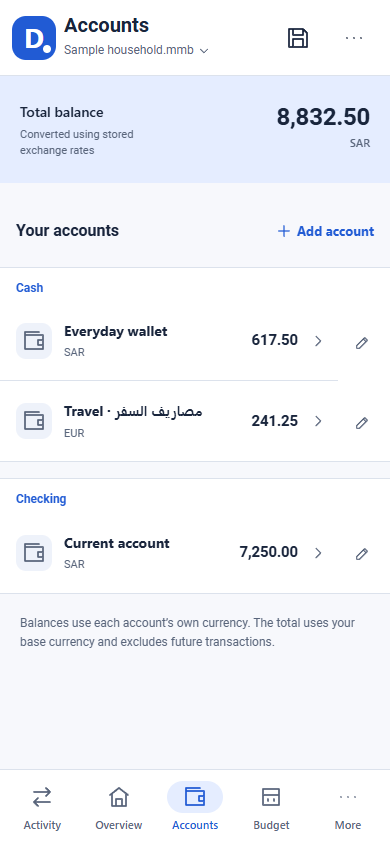
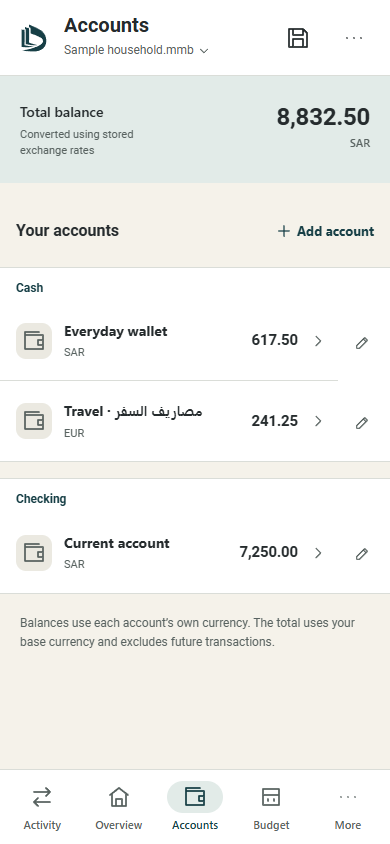
Add files via upload

diff --git a/app/src/main/assets/mobile-shell.css b/app/src/main/assets/mobile-shell.css
@@ -1,28 +1,28 @@
 /* Android presentation: compact ledger, independent app navigation, full-screen entry. */
 html.diwan-mobile {
-  --m-primary:#215bd4; --m-on-primary:#fff; --m-primary-container:#e5edff;
-  --m-bg:#f7f8fc; --m-surface:#fff; --m-raised:#eef2fa; --m-text:#19253c;
-  --m-muted:#59657b; --m-line:#dce2ec; --m-income:#08765c; --m-income-bg:#e2f4ee;
-  --m-expense:#b82348; --m-expense-bg:#fce8ee; --m-transfer:#265db3; --m-transfer-bg:#e6edff;
+  --m-primary:#173f46; --m-on-primary:#fff; --m-primary-container:#e2ebe8;
+  --m-bg:#f5f2ea; --m-surface:#fff; --m-raised:#ebe9e1; --m-text:#252b2d;
+  --m-muted:#586260; --m-line:#daddd8; --m-income:#20734b; --m-income-bg:#e4f1e9;
+  --m-expense:#b83a3a; --m-expense-bg:#fbe9e6; --m-transfer:#8a630d; --m-transfer-bg:#f5edd8;
   --m-radius:16px; --m-nav-height:76px; --m-header-height:76px;
   --ui-brand:var(--m-primary); --ui-canvas:var(--m-bg); --ui-surface:var(--m-surface);
   --ui-text:var(--m-text); --ui-muted:var(--m-muted); --ui-border:var(--m-line);
-  --ui-border-strong:var(--m-muted); --ui-focus:var(--m-primary);
+  --ui-border-strong:var(--m-muted); --ui-focus:#0077b6;
   color-scheme:light;
 }
 html.diwan-mobile[data-mobile-theme="dark"] {
-  --m-primary:#aec8ff; --m-on-primary:#122e64; --m-primary-container:#253b60;
-  --m-bg:#101722; --m-surface:#172132; --m-raised:#202c40; --m-text:#ecf0f8;
-  --m-muted:#b4bfd2; --m-line:#354258; --m-income:#89dfbe; --m-income-bg:#163d35;
-  --m-expense:#ffb0c5; --m-expense-bg:#4b2536; --m-transfer:#abc7ff; --m-transfer-bg:#253c61;
+  --m-primary:#c0d9d8; --m-on-primary:#102b30; --m-primary-container:#284b50;
+  --m-bg:#102b30; --m-surface:#173f46; --m-raised:#244a50; --m-text:#f5f2ea;
+  --m-muted:#bbc9c7; --m-line:#3a5960; --m-income:#74d4a4; --m-income-bg:#194b3b;
+  --m-expense:#ff9a9a; --m-expense-bg:#593437; --m-transfer:#e8c36d; --m-transfer-bg:#4b4227;
   color-scheme:dark;
 }
 @media(prefers-color-scheme:dark) {
   html.diwan-mobile[data-mobile-theme="system"] {
-    --m-primary:#aec8ff; --m-on-primary:#122e64; --m-primary-container:#253b60;
-    --m-bg:#101722; --m-surface:#172132; --m-raised:#202c40; --m-text:#ecf0f8;
-    --m-muted:#b4bfd2; --m-line:#354258; --m-income:#89dfbe; --m-income-bg:#163d35;
-    --m-expense:#ffb0c5; --m-expense-bg:#4b2536; --m-transfer:#abc7ff; --m-transfer-bg:#253c61;
+    --m-primary:#c0d9d8; --m-on-primary:#102b30; --m-primary-container:#284b50;
+    --m-bg:#102b30; --m-surface:#173f46; --m-raised:#244a50; --m-text:#f5f2ea;
+    --m-muted:#bbc9c7; --m-line:#3a5960; --m-income:#74d4a4; --m-income-bg:#194b3b;
+    --m-expense:#ff9a9a; --m-expense-bg:#593437; --m-transfer:#e8c36d; --m-transfer-bg:#4b4227;
     color-scheme:dark;
   }
 }
@@ -32,7 +32,7 @@ html.diwan-mobile[data-mobile-theme="dark"] {
 .diwan-mobile #app,.diwan-mobile body>.topbar,.diwan-mobile body>.app-footer,.diwan-mobile #welcome-view,.diwan-mobile #workspace,.diwan-mobile #mobile-nav,.diwan-mobile .command-strip,.diwan-mobile #mobile-more-dialog { display:none!important; }
 .diwan-mobile button,.diwan-mobile input,.diwan-mobile select,.diwan-mobile textarea { font:inherit; }
 .diwan-mobile button { cursor:pointer; -webkit-tap-highlight-color:transparent; touch-action:manipulation; }
-.diwan-mobile :focus-visible { outline:3px solid var(--m-primary); outline-offset:3px; }
+.diwan-mobile :focus-visible { outline:3px solid var(--ui-focus); outline-offset:3px; }
 .diwan-mobile ::selection { background:var(--m-primary-container); color:var(--m-text); }
 .diwan-mobile input,.diwan-mobile textarea { caret-color:var(--m-primary); }
 .diwan-mobile ::placeholder { color:var(--m-muted); opacity:1; }
@@ -308,3 +308,14 @@ html.diwan-mobile[data-mobile-theme="dark"] {
 .diwan-mobile #transaction-dialog .modal-footer>.button:not([type=submit]) { flex:0 0 auto; }
 .diwan-mobile #transaction-dialog .modal-footer>.button[type=submit] { flex:1 1 auto; white-space:nowrap; }
 #m-entry-currency { font-size:.875rem; color:var(--m-muted); font-weight:600; }
+
+/* Approved Diwan Ledger v2 artwork: retain original paths and proportions. */
+.m-monogram { background:transparent; border-radius:0; padding:6px; }
+.m-brand-symbol { display:block; width:32px; height:32px; object-fit:contain; }
+.m-brand-dark { display:none; }
+.m-brand-lockup { display:block; width:180px; max-width:100%; height:auto; margin:0 auto; }
+.m-welcome-brand { border-bottom:1px solid #b9814b; padding-bottom:24px; }
+html[data-mobile-theme="dark"] .m-brand-light { display:none; }
+html[data-mobile-theme="dark"] .m-brand-dark { display:block; }
+@media(prefers-color-scheme:dark) { html[data-mobile-theme="system"] .m-brand-light { display:none; } html[data-mobile-theme="system"] .m-brand-dark { display:block; } }
+.m-brand-lockup.m-brand-dark { display:none; } html[data-mobile-theme="dark"] .m-brand-lockup.m-brand-dark { display:block; } @media(prefers-color-scheme:dark) { html[data-mobile-theme="system"] .m-brand-lockup.m-brand-dark { display:block; } }

diff --git a/app/src/main/assets/mobile-shell.js b/app/src/main/assets/mobile-shell.js
@@ -36,8 +36,8 @@
   function header() {
     const account=snapshot?.accounts?.find(a=>String(a.ACCOUNTID)===String(state.account));
     const detail=state.detail!==null;
-    $('#m-header').innerHTML=`${detail||state.tool ? button('back','Back','back') : `<span class="m-monogram" aria-label="DIWAN">D<span></span></span>`}
-      <div class="m-heading"><h1>${escape(detail?'Transaction':state.tool?state.tool.label:labels[state.route])}</h1><button class="m-file-name" data-action="files">${escape(snapshot?.loaded?snapshot.fileName:'DIWAN · Your money, on your device')}${snapshot?.loaded?icon('down'):''}</button></div>
+    $('#m-header').innerHTML=`${detail||state.tool ? button('back','Back','back') : `<span class="m-monogram"><img class="m-brand-symbol m-brand-light" src="brand/diwanledger-symbol-petrol.svg" alt="Diwan Ledger"><img class="m-brand-symbol m-brand-dark" src="brand/diwanledger-symbol-ivory.svg" alt="Diwan Ledger"></span>`}
+      <div class="m-heading"><h1>${escape(detail?'Transaction':state.tool?state.tool.label:labels[state.route])}</h1><button class="m-file-name" data-action="files">${escape(snapshot?.loaded?snapshot.fileName:'Diwan Ledger · Your money, on your device')}${snapshot?.loaded?icon('down'):''}</button></div>
       ${snapshot?.loaded?button('save',snapshot.dirty?'Save unsaved changes':'Save file','save',`data-unsaved="${!!snapshot.dirty}"`):''}
       ${snapshot?.loaded&&!detail&&!state.tool?button(state.route==='activity'?'search':'files',state.route==='activity'?'Search transactions':'File actions',state.route==='activity'?'search':'more'):''}`;
     $('#m-nav').hidden=!snapshot?.loaded;
@@ -111,7 +111,7 @@
       <div class="m-detail-actions"><button class="m-outline" data-action="duplicate">${icon('copy')} Duplicate</button><button class="m-filled" data-action="edit">${icon('edit')} Edit transaction</button></div>`;
   }
   function welcome() {
-    return `<section class="m-welcome"><div class="m-welcome-brand">${icon('accounts')}<strong>DIWAN<span lang="ar">ديوان</span></strong></div><h2>A clear view of<br>your everyday money.</h2><p>Keep your accounts together. Record an expense in a few taps. Pick up where your file left off.</p><div class="m-welcome-actions"><button class="m-filled" data-action="open">${icon('folder')} Open finance file</button><button class="m-outline" data-action="folder">Choose working folder</button></div><p class="m-welcome-support">Opens .diwan and .mmb files</p><div class="m-welcome-note">${icon('shield')}<p><strong>Your file. Your device.</strong><br>No account or server is needed. Choose a folder to save changes and keep preferences beside your file.</p></div><p id="m-loading" class="m-muted" role="status">Preparing your workspace…</p></section>`;
+    return `<section class="m-welcome"><div class="m-welcome-brand"><img class="m-brand-lockup m-brand-light" src="brand/diwanledger-logo-stacked-petrol.svg" alt="Diwan Ledger"><img class="m-brand-lockup m-brand-dark" src="brand/diwanledger-logo-stacked-ivory.svg" alt="Diwan Ledger"></div><h2>A clear view of<br>your everyday money.</h2><p>Keep your accounts together. Record an expense in a few taps. Pick up where your file left off.</p><div class="m-welcome-actions"><button class="m-filled" data-action="open">${icon('folder')} Open finance file</button><button class="m-outline" data-action="folder">Choose working folder</button></div><p class="m-welcome-support">Opens .diwan and .mmb files</p><div class="m-welcome-note">${icon('shield')}<p><strong>Your file. Your device.</strong><br>No account or server is needed. Choose a folder to save changes and keep preferences beside your file.</p></div><p id="m-loading" class="m-muted" role="status">Preparing your workspace…</p></section>`;
   }
   function showTool(id) {
     const found=tools.find(t=>t[0]===id)||['budget','Budget setup'];

diff --git a/tools/wrap_studio.py b/tools/wrap_studio.py
@@ -83,4 +83,10 @@ def wrap(source):
 if __name__ == '__main__':
     parser = argparse.ArgumentParser()
     parser.add_argument('studio_html', type=Path)
-    wrap(parser.parse_args().studio_html)
+    args = parser.parse_args()
+    source = args.studio_html
+    if not source.is_file() and not source.is_absolute():
+        source = ROOT / source
+    if not source.is_file():
+        parser.error(f"Missing engine input: {args.studio_html}. Restore Diwan-1.2.12.html from the complete source ZIP. The GitHub workflow can also test/build the committed prepared app/src/main/assets without regenerating it.")
+    wrap(source)

diff --git a/brand/BRAND-GUIDE.md b/brand/BRAND-GUIDE.md
@@ -1,0 +1,65 @@
+# Diwan Ledger | ديوان — Brand identity v2.0
+
+## Purpose / الفكرة
+ديوان يحفظ استمرارية تاريخك المالي: استعادة السجلات من ملفات البرامج السابقة ثم مواصلة تحديثها. رمز الصفحات المتتابعة مستوحى من حرف «د». العربية هي الاسم الأساسي واللاتينية اسم ثانوي.
+
+**تاريخك المالي، وسجلّك المستمر.**
+
+English editorial translation: Your financial history. Your continuing record.
+
+## Master assets
+- `logos/`: transparent SVG paths and 2× PNG exports. Arabic and Latin lettering are outlined, with no font dependency.
+- Horizontal lockup: website navigation, document headers, compact spaces.
+- Stacked lockup: welcome screens and large brand placements.
+- Standalone symbol: favicon, app icon, small avatar. Do not use the complete wordmark inside a tiny icon.
+- Petrol/charcoal versions on light backgrounds; ivory version on petrol/dark backgrounds; black version for one-color printing.
+- The vectors are carefully traced and flattened from the approved concept. They are editable paths, not embedded bitmap images. Minor contour refinements are part of production cleanup.
+
+## Clear space and minimum size
+Keep empty space of at least one quarter of the symbol width around standalone marks, and at least the height of the Latin letter D around lockups. Never stretch, rotate, recolor arbitrarily, add shadows, or separate the page layers.
+Suggested minimum digital widths: symbol 24 px; horizontal logo 180 px; stacked logo 140 px. Use the symbol only below these lockup sizes. At 16 px favicon scale, fine internal details will soften.
+
+## Palette
+| Role | Hex |
+|---|---|
+| Primary petrol | #173F46 |
+| Warm ivory | #F5F2EA |
+| Copper accent | #B9814B |
+| Charcoal text | #252B2D |
+| Income | #20734B |
+| Expense | #B83A3A |
+| Transfer | #8A630D |
+| Focus indicator | #0077B6 |
+
+Use copper sparingly for decoration and emphasis. Do not use copper as small body text on ivory; use petrol or charcoal. Never communicate income/expense/status through color alone: pair color with a sign, label, or icon. Dark theme semantic colors are included in CSS.
+
+## Typography / الخطوط
+The Arabic lettering is an outlined custom graphic, not an installable font. The Latin lockup uses outlined DejaVu Sans; the text paths do not require font installation. DejaVu attribution and license are included in FONT-LICENSE.txt. For interface text, recommended future typography: Noto Sans Arabic for Arabic, Inter for Latin. Font files are not bundled; the provided offline reference uses Tahoma / Segoe UI / Arial system fallbacks, so no network or font license dependency is introduced. If you add fonts, obtain official files and include their license notices.
+Suggested scale: body 16 px; supporting text 14 px; section title 24 px; page title 32 px. Line height 1.6–1.8 for Arabic. Use tabular numbers for financial values. Keep monetary amounts, dates, and codes in separate LTR spans inside RTL layouts.
+
+## Website assets
+`web/index.html` is an offline responsive identity reference with working theme switch and download links. It is not a functional finance application or a deployed website.
+Copy `web/` assets to your website, adapt paths in `integration-head.html`, and replace the placeholder OG image URL with an absolute public URL. The sample manifest start_url is relative and should be changed to your actual app entry point. A manifest and icons alone do not implement offline storage; no service worker is included.
+Open Graph artwork source is 1200×630 SVG; its PNG export is 2400×1260. Wide cover source is 1920×640; PNG is 3840×1280. Rounded profile source is 1080×1080; PNG is 2160×2160.
+
+## App icons
+- `app/`: editable square, rounded, and maskable artwork. General SVGs have 2× PNG exports.
+- `web/icons/`: exact-size PNGs; 192/512 maskable variants keep the mark inside the central safe region.
+- Android: merge `android/res/` into your app resources. Includes density-specific legacy/round PNGs, API 26 adaptive resources, API 33 monochrome themed icons, and named colors. Set application attributes android:icon="@mipmap/ic_launcher" and android:roundIcon="@mipmap/ic_launcher_round". Existing resources with the same names must be reviewed before replacement.
+- iOS: merge `ios/Assets.xcassets/AppIcon.appiconset` into your asset catalog. Icons have opaque square backgrounds; iOS applies its own corner mask. This catalog includes iPhone/iPad sizes and the 1024 px App Store icon. Validate with the target Xcode version before release.
+- Native platform exports are supplied as integration assets; no Android or iOS build is included or tested.
+
+## Accessibility and interaction
+Use minimum 44×44 CSS px interactive targets. Keep visible keyboard focus. Support RTL structurally, not by reversing all icons: playback, numbers and brand marks preserve orientation. Financial statuses require text or symbols in addition to color.
+
+## Package inventory
+See `ASSET-INVENTORY.csv` for every asset and pixel dimensions. All logo PNGs are transparent. App icons and sharing artwork are opaque. SVG source sizes and PNG export sizes are deliberately separate.
+
+## Release notes
+This package is visual identity and integration artwork. It does not certify trademark availability or implement file readers/importers. Claims about support for a file format should be added only after its reader has been validated in the application.
+
+## Naming and address — v2
+Primary English name: **Diwan Ledger**. Primary Arabic name: **ديوان**. Canonical website address: **diwanledger.com**. Arabic tagline stays **تاريخك المالي، وسجلّك المستمر.**
+Use the address-bearing lockup for marketing, covers, and externally shared documents. Use the plain horizontal/stacked lockup inside the app. The symbol and palette remain continuous with v1. No website has been published, and ownership or registration of the address has not been checked; the address is used as supplied by the user.
+
+The HTML preview is a brand reference, not the finance app. Manifest paths remain relative for portability. Open Graph metadata now uses https://diwanledger.com/assets/diwanledger/; deploy the referenced assets at that location or adjust the URLs.

diff --git a/README.md b/README.md
@@ -18,14 +18,12 @@ Android opens **.diwan and .mmb only**. Open one native DIWAN file, or up to nin
 ## Build on GitHub from another computer
 
 1. Extract this ZIP and upload the **contents** of `DIWAN-Android-Mobile-1.2.12` into a GitHub repository. Include `.github` and `gradle`. `build.gradle` and `package.json` must be at the repository root.
-2. Keep the separate private signing kit backed up. Never upload the kit, `.jks`, `signing.env`, or `GitHub-Secrets.txt` to a repository.
-3. In repository **Settings > Secrets and variables > Actions**, create `STUDIO_KEYSTORE_BASE64`, `STUDIO_STORE_PASSWORD`, and `STUDIO_KEY_PASSWORD` from the existing signing kit's `GitHub-Secrets.txt`.
-4. In **Actions > Build signed Android APK**, choose **Run workflow**. The workflow also runs on pushes to `main`.
-5. Download the **DIWAN-Android-APK** artifact from the successful run and extract `app-release.apk`.
+2. No repository secrets are required. In **Actions > Build Android preview APK**, select **Run workflow** (also runs on pushes to main).
+3. Download **DIWAN-Android-Debug-APK** and extract `app-debug.apk`.
 
-The workflow regenerates the embedded assets, runs the Node and Chromium regression checks, compiles, signs and runs Android release lint. It restores the key only in the runner's temporary directory and removes it after the job. This task has not uploaded a repository or executed GitHub Actions.
+Preview package ID is `net.osamapro.mmexstudio.preview`, so it can coexist with the signed production app. GitHub generates a temporary debug signing key; previews from different runs may require uninstalling the prior preview. Export/save your finance files first. This is a test build, not a permanent release signing arrangement. Existing production app data is not migrated automatically.
 
-Package ID stays `net.osamapro.mmexstudio`; version name is `1.2.12-mobile.2`. Local version-code base is **120200**; GitHub adds the workflow run number. Keep version codes increasing in later releases. Using the original signing key permits updating the prior DIWAN/MMEX Studio app without uninstalling it. Minimum Android API 26 (Android 8), target/compile API 35. Keep Android System WebView updated.
+Release signing remains available locally using the original private kit; never commit it. Android minimum API 26, compile/target API 35. This task delivers source only and does not upload or run GitHub Actions.
 
 ## Local development
 
@@ -60,3 +58,13 @@ The HTML preparation must be rerun after changing `mobile-core.js`; CSS and shel
 Document edits stay in memory until Save file. Preferences use the original queued autosave. Existing `Studio Exports` and `.studio-backups/<filename>.previous` paths are preserved for compatibility. Native writes detect external changes, preserve previous bytes and verify the write; Android providers cannot universally guarantee atomic replacement during power loss. The file bridge retains its 256 MiB transfer limit and memory constraints.
 
 Verification reports cover source compilation, release lint, 18 Node bridge checks, 16 browser bridge/opening checks and 15 mobile workflow checks. `previews/` contains browser-rendered UI using labeled synthetic test data, not emulator/device captures. Native storage providers, IME, Android system Back/predictive gestures, printing, system font scaling and hardware performance still require testing on an Android device. The independent reviewer resolved its two findings (future Recent activity and undersized file/search hit areas) and cleared the source handoff at this browser-evidence scope.
+
+## GitHub troubleshooting
+
+The default GitHub workflow builds a debug preview without secrets. Permanent release signing is optional and separate.
+
+The 1.2.12 engine HTML is a supplied source input, not produced by an npm build script. If that original input is absent from GitHub but the prepared Android assets are committed, the workflow tests and builds those assets directly. Regenerating them after changes to `tools/mobile-core.js` still requires the original HTML. Upload the complete source ZIP contents for a fully reproducible checkout.
+
+## Visual identity
+
+Uses the supplied Diwan Ledger v2 outlined logos, petrol/ivory palette, copper detail, semantic finance colors and Android adaptive/monochrome launcher icons. Original branding guide and font notice are in `brand/`. The independent mobile navigation and quick-entry workflow are retained.

diff --git a/DESIGN.md b/DESIGN.md
@@ -2,36 +2,36 @@
 name: DIWAN Android
 description: Everyday pocket ledger for Android WebView
 colors:
-  primary: "#215bd4"
+  primary: "#173f46"
   on-primary: "#fff"
-  primary-container: "#e5edff"
-  bg: "#f7f8fc"
+  primary-container: "#e2ebe8"
+  bg: "#f5f2ea"
   surface: "#fff"
-  raised: "#eef2fa"
-  text: "#19253c"
-  muted: "#59657b"
-  line: "#dce2ec"
-  income: "#08765c"
-  income-bg: "#e2f4ee"
-  expense: "#b82348"
-  expense-bg: "#fce8ee"
-  transfer: "#265db3"
-  transfer-bg: "#e6edff"
-  dark-primary: "#aec8ff"
-  dark-on-primary: "#122e64"
-  dark-primary-container: "#253b60"
-  dark-bg: "#101722"
-  dark-surface: "#172132"
-  dark-raised: "#202c40"
-  dark-text: "#ecf0f8"
-  dark-muted: "#b4bfd2"
-  dark-line: "#354258"
-  dark-income: "#89dfbe"
-  dark-income-bg: "#163d35"
-  dark-expense: "#ffb0c5"
-  dark-expense-bg: "#4b2536"
-  dark-transfer: "#abc7ff"
-  dark-transfer-bg: "#253c61"
+  raised: "#ebe9e1"
+  text: "#252b2d"
+  muted: "#586260"
+  line: "#daddd8"
+  income: "#20734b"
+  income-bg: "#e4f1e9"
+  expense: "#b83a3a"
+  expense-bg: "#fbe9e6"
+  transfer: "#8a630d"
+  transfer-bg: "#f5edd8"
+  dark-primary: "#c0d9d8"
+  dark-on-primary: "#102b30"
+  dark-primary-container: "#284b50"
+  dark-bg: "#102b30"
+  dark-surface: "#173f46"
+  dark-raised: "#244a50"
+  dark-text: "#f5f2ea"
+  dark-muted: "#bbc9c7"
+  dark-line: "#3a5960"
+  dark-income: "#74d4a4"
+  dark-income-bg: "#194b3b"
+  dark-expense: "#ff9a9a"
+  dark-expense-bg: "#593437"
+  dark-transfer: "#e8c36d"
+  dark-transfer-bg: "#4b4227"
 typography:
   headline:
     fontFamily: 'Roboto, "Noto Sans Arabic", system-ui, sans-serif'
@@ -171,3 +171,7 @@ The .impeccable/review captures are browser-only synthetic evidence. The reporte
 - Don't transplant the desktop sidebar or Actual Budget repository styling.
 - Don't rely on color alone to explain transaction direction.
 - Don't represent browser synthetic captures as Android device evidence.
+
+## Approved identity v2
+
+Diwan Ledger supplied outlined marks, petrol #173F46, ivory #F5F2EA, copper #B9814B, charcoal #252B2D and semantic finance colors replace the blue theme. Native adaptive, monochrome and legacy launcher resources come directly from the approved v2 package. See brand/BRAND-GUIDE.md.

diff --git a/PRODUCT.md b/PRODUCT.md
@@ -20,7 +20,7 @@ The user requested a mobile approach and design substantially different from web
 
 ## Delivery constraints
 
-Generate GitHub-ready source only in `C:\Users\OsamaPremium\OneDrive\MMEX\DIWAN APK`. Include a GitHub Actions signing/build workflow. Keep the existing package ID and signing identity for future in-place updates. Never include signing credentials in the source archive. Do not generate or publish a new APK for this redesign request.
+Generate GitHub-ready source only in `C:\Users\OsamaPremium\OneDrive\MMEX\DIWAN APK`. Include a GitHub Actions signing/build workflow. Release retains its package and signing identity. GitHub defaults to a secret-free debug preview with .preview application ID suffix. Never include signing credentials in the source archive. Do not generate or publish a new APK for this redesign request.
 
 ## Accessibility
 
